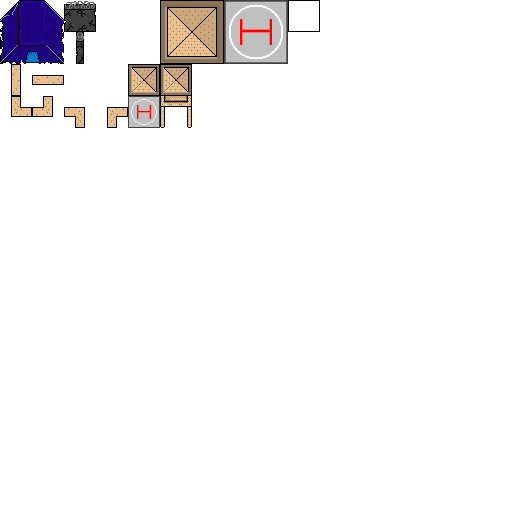
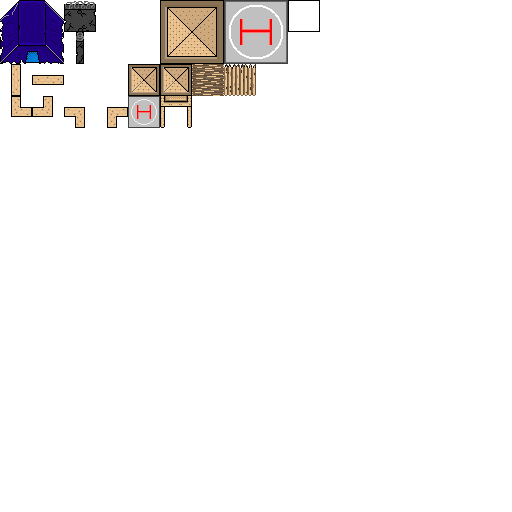
Removed Walls, Replaced with Barricades

Changed region(s): [[0.375, 0.125, 0.5, 0.1875]]

diff --git a/GameBase/GameBase/Entity/SelectionHandle.cs b/GameBase/GameBase/Entity/SelectionHandle.cs
@@ -68,38 +68,8 @@ namespace GameBase.Entity
         {
             if (Input.KeyClicked(Keys.D1))
             {
-                HorizontalWall wall = new HorizontalWall(100, 100);
-                wall.SpawnAt(ZDefGame.tileMap, SelectedTile.TilePos().X, SelectedTile.TilePos().Y);
-                pathFinder.EnvironmentChanged = true;
-            }
-            if (Input.KeyClicked(Keys.D2))
-            {
-                VerticalWall wall = new VerticalWall(100, 100);
-                wall.SpawnAt(ZDefGame.tileMap, SelectedTile.TilePos().X, SelectedTile.TilePos().Y);
-                pathFinder.EnvironmentChanged = true;
-            }
-            if (Input.KeyClicked(Keys.D3))
-            {
-                TopLeftCornerWall wall = new TopLeftCornerWall(100, 100);
-                wall.SpawnAt(ZDefGame.tileMap, SelectedTile.TilePos().X, SelectedTile.TilePos().Y);
-                pathFinder.EnvironmentChanged = true;
-            }
-            if (Input.KeyClicked(Keys.D4))
-            {
-                TopRightCornerWall wall = new TopRightCornerWall(100, 100);
-                wall.SpawnAt(ZDefGame.tileMap, SelectedTile.TilePos().X, SelectedTile.TilePos().Y);
-                pathFinder.EnvironmentChanged = true;
-            }
-            if (Input.KeyClicked(Keys.D5))
-            {
-                LeftBottomCornerWall wall = new LeftBottomCornerWall(100, 100);
-                wall.SpawnAt(ZDefGame.tileMap, SelectedTile.TilePos().X, SelectedTile.TilePos().Y);
-                pathFinder.EnvironmentChanged = true;
-            }
-            if (Input.KeyClicked(Keys.D6))
-            {
-                RightBottomCornerWall wall = new RightBottomCornerWall(100, 100);
-                wall.SpawnAt(ZDefGame.tileMap, SelectedTile.TilePos().X, SelectedTile.TilePos().Y);
+                WoodenBarricade barricade = new WoodenBarricade(100, 100);
+                barricade.SpawnAt(ZDefGame.tileMap, SelectedTile.TilePos().X, SelectedTile.TilePos().Y);
                 pathFinder.EnvironmentChanged = true;
             }
         }

diff --git a/GameBase/GameBase/Terrain/TileType.cs b/GameBase/GameBase/Terrain/TileType.cs
@@ -24,12 +24,7 @@ namespace GameBase.Terrain
         public static TileType EMPTY_SMALL = new TileType(60, 32, 32, new Vector2(448.0f, 480.0f));
         public static TileType SMALL_BORDER = new TileType(60, 32, 32, new Vector2(288.0f, 0.0f));
 
-        public static TileType WALL_VERTICAL = new TileType(61, 32, 32, new Vector2(0.0f, 64.0f), false);
-        public static TileType WALL_HORIZONTAL = new TileType(62, 32, 32, new Vector2(32.0f, 64.0f), false);
-        public static TileType WALL_CORNER_TOP_RIGHT = new TileType(63, 32, 32, new Vector2(0.0f, 96.0f), false);
-        public static TileType WALL_CORNER_TOP_LEFT = new TileType(64, 32, 32, new Vector2(32.0f, 96.0f), false);
-        public static TileType WALL_CORNER_LEFT_BOTTOM = new TileType(65, 32, 32, new Vector2(64.0f, 96.0f), false);
-        public static TileType WALL_CORNER_RIGHT_BOTTOM = new TileType(66, 32, 32, new Vector2(96.0f, 96.0f), false);
+        public static TileType WOODEN_BARRICADE = new TileType(61, 32, 32, new Vector2(224.0f, 64.0f), false);
 
         public static TileType BORDER_LEFT = new TileType(-1, 64, 64, new Vector2(192, 128));
         public static TileType BORDER_RIGHT = new TileType(-2, 64, 64, new Vector2(0, 128));

diff --git a/GameBase/GameBase/Entity/WoodenBarricade.cs b/GameBase/GameBase/Entity/WoodenBarricade.cs
@@ -6,9 +6,9 @@ using GameBase.Terrain;
 
 namespace GameBase.Entity
 {
-    public class HorizontalWall : Building
+    class WoodenBarricade : Building
     {
-        public HorizontalWall(int health, int constructionState)
+        public WoodenBarricade(int health, int constructionState)
             : base(health, constructionState)
         {
 
@@ -16,7 +16,7 @@ namespace GameBase.Entity
 
         public override TileType GetTileType()
         {
-            return TileType.WALL_HORIZONTAL;
+            return TileType.WOODEN_BARRICADE;
         }
 
         public override bool SpawnAt(TileMap map, int x, int y)
@@ -27,14 +27,13 @@ namespace GameBase.Entity
             }
             else
             {
-                map.CreateSmallBuildingAt(x, y, this);
-                return true;
+                return map.CreateSmallBuildingAt(x, y, this);
             }
         }
 
         public override void Update(TileMap map, int x, int y)
         {
+            
         }
-
     }
 }
